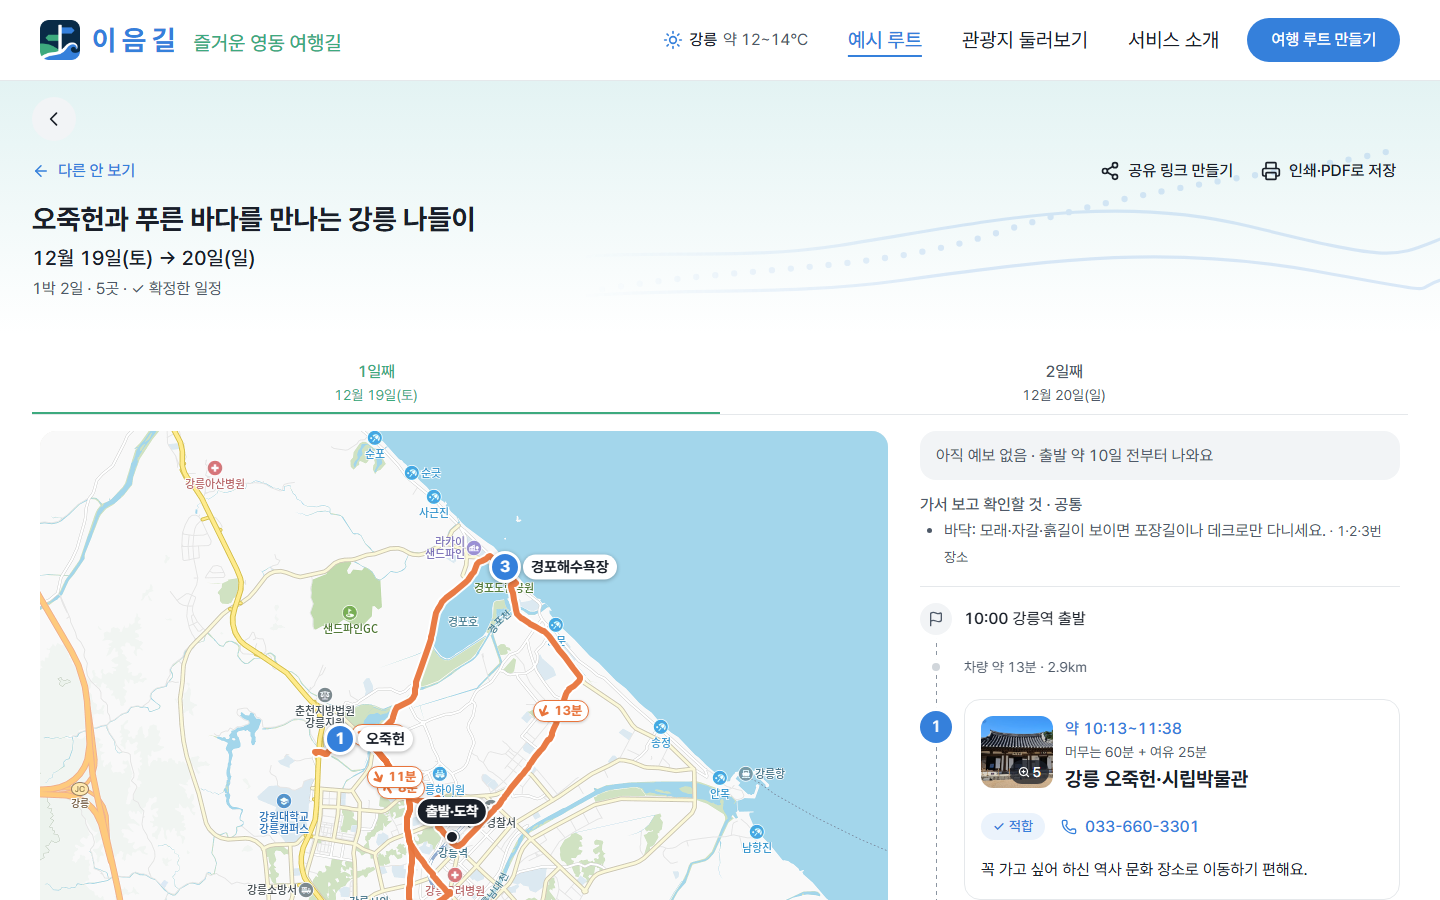
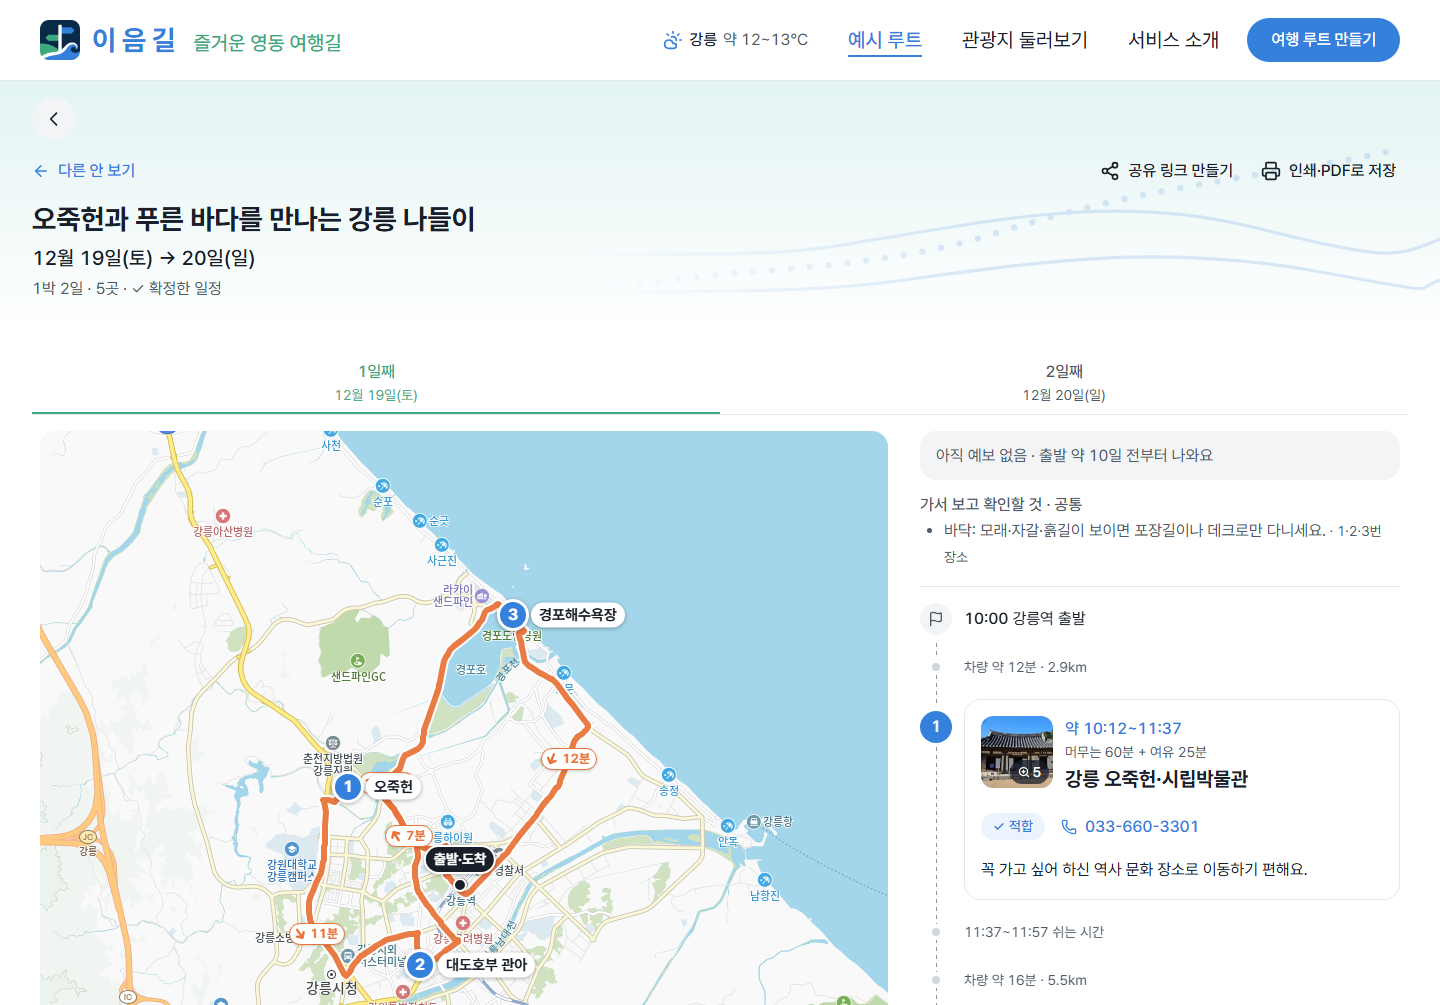
docs: README 1차 검토 반영 — 첫 화면은 메인 화면, 표 칸 폭 고정, 계획 대비 현황에 상태 표시, 군더더기 정리
- 맨 위 그림을 메인 화면으로, 일정 비교 화면은 '예시 일정으로 둘러보기'로. '왜 만들었나요'를 맨 앞으로
- 오죽헌 추적 · AI 단계 · 검증 표를 칸 폭을 고정한 표로(단계 이름이 두 줄로 갈라지지 않게), 예시 일정 그림 세 장 같은 크기로
- 계획서 대비 구현 현황: 줄마다 ✅ 구현 · 🔄 변경 · ➕ 추가 상태와 구현한 내용 한 줄, 링크는 줄마다 하나
- 검증은 핵심 4줄만 보이게 하고 나머지는 접기, 실행 방법도 핵심 한 문단만 보이게
- 심사 안내 상자 · A안 전체 글 · 호출 횟수 문단 · 시작 화면 세부 설명 등 군더더기 삭제, 공유 설명은 기술 문서 말투로
- PC 확정 일정 캡처를 첫 장소 카드가 잘리지 않게 다시 찍음(캡처 스크립트에 장면별 세로 크기)

diff --git a/scripts/readme/capture.ts b/scripts/readme/capture.ts
@@ -37,7 +37,7 @@ const events = [
   { stage: "log", text: "B안: 운영시간을 넘는 곳이 있어 고치는 중", tone: "fix" },
 ];
 
-type Shot = { name: string; path: string; desktop?: boolean; act?: (p: Page) => Promise<void> };
+type Shot = { name: string; path: string; desktop?: boolean; height?: number; act?: (p: Page) => Promise<void> };
 
 const SHOTS: Shot[] = [
   { name: "01-home", path: "/" },
@@ -75,7 +75,8 @@ const SHOTS: Shot[] = [
     },
   },
   { name: "10-final", path: "/trip/example/final", act: waitMap },
-  { name: "11-final-desktop", path: "/trip/example/final", desktop: true, act: waitMap },
+  // PC 확정 일정은 첫 장소 카드가 잘리지 않게 세로를 늘려 찍는다
+  { name: "11-final-desktop", path: "/trip/example/final", desktop: true, height: 1005, act: waitMap },
   {
     name: "12-checklist",
     path: "/trip/example/final",
@@ -172,7 +173,7 @@ async function waitMap(p: Page) {
 
 async function capture(b: Browser, s: Shot) {
   const ctx = await b.newContext({
-    viewport: s.desktop ? { width: 1440, height: 900 } : { width: 390, height: 844 },
+    viewport: s.desktop ? { width: 1440, height: s.height ?? 900 } : { width: 390, height: 844 },
     deviceScaleFactor: s.desktop ? 1 : 2,
     locale: "ko-KR",
     timezoneId: "Asia/Seoul",
@@ -290,7 +291,7 @@ async function frames(b: Browser) {
   await phone.close();
 
   // PC: 1440×900 캡처 + 위쪽 창 막대(점 3개 · 주소)
-  const pc = await b.newPage({ viewport: { width: 1560, height: 1040 }, deviceScaleFactor: 1 });
+  const pc = await b.newPage({ viewport: { width: 1560, height: 1400 }, deviceScaleFactor: 1 });
   for (const n of desktops) {
     await pc.setContent(`<!doctype html><html><body style="margin:0;background:transparent;font-family:'Malgun Gothic',sans-serif">
       <div id="f" style="display:inline-block;padding:16px 40px 56px">
@@ -299,7 +300,7 @@ async function frames(b: Browser) {
             ${["#FF5F57", "#FEBC2E", "#28C840"].map((c) => `<span style="width:12px;height:12px;border-radius:50%;background:${c}"></span>`).join("")}
             <div style="margin-left:24px;flex:0 1 480px;height:28px;border-radius:14px;background:#fff;color:#4E5968;font-size:14px;display:flex;align-items:center;padding:0 16px">ieumgil-ai.vercel.app</div>
           </div>
-          <img src="${src(n)}" style="display:block;width:1440px;height:900px" />
+          <img src="${src(n)}" style="display:block;width:1440px;height:auto" />
         </div>
       </div></body></html>`);
     await pc.locator("#f").screenshot({ path: `${OUT}/mock/${n}.png`, omitBackground: true });
